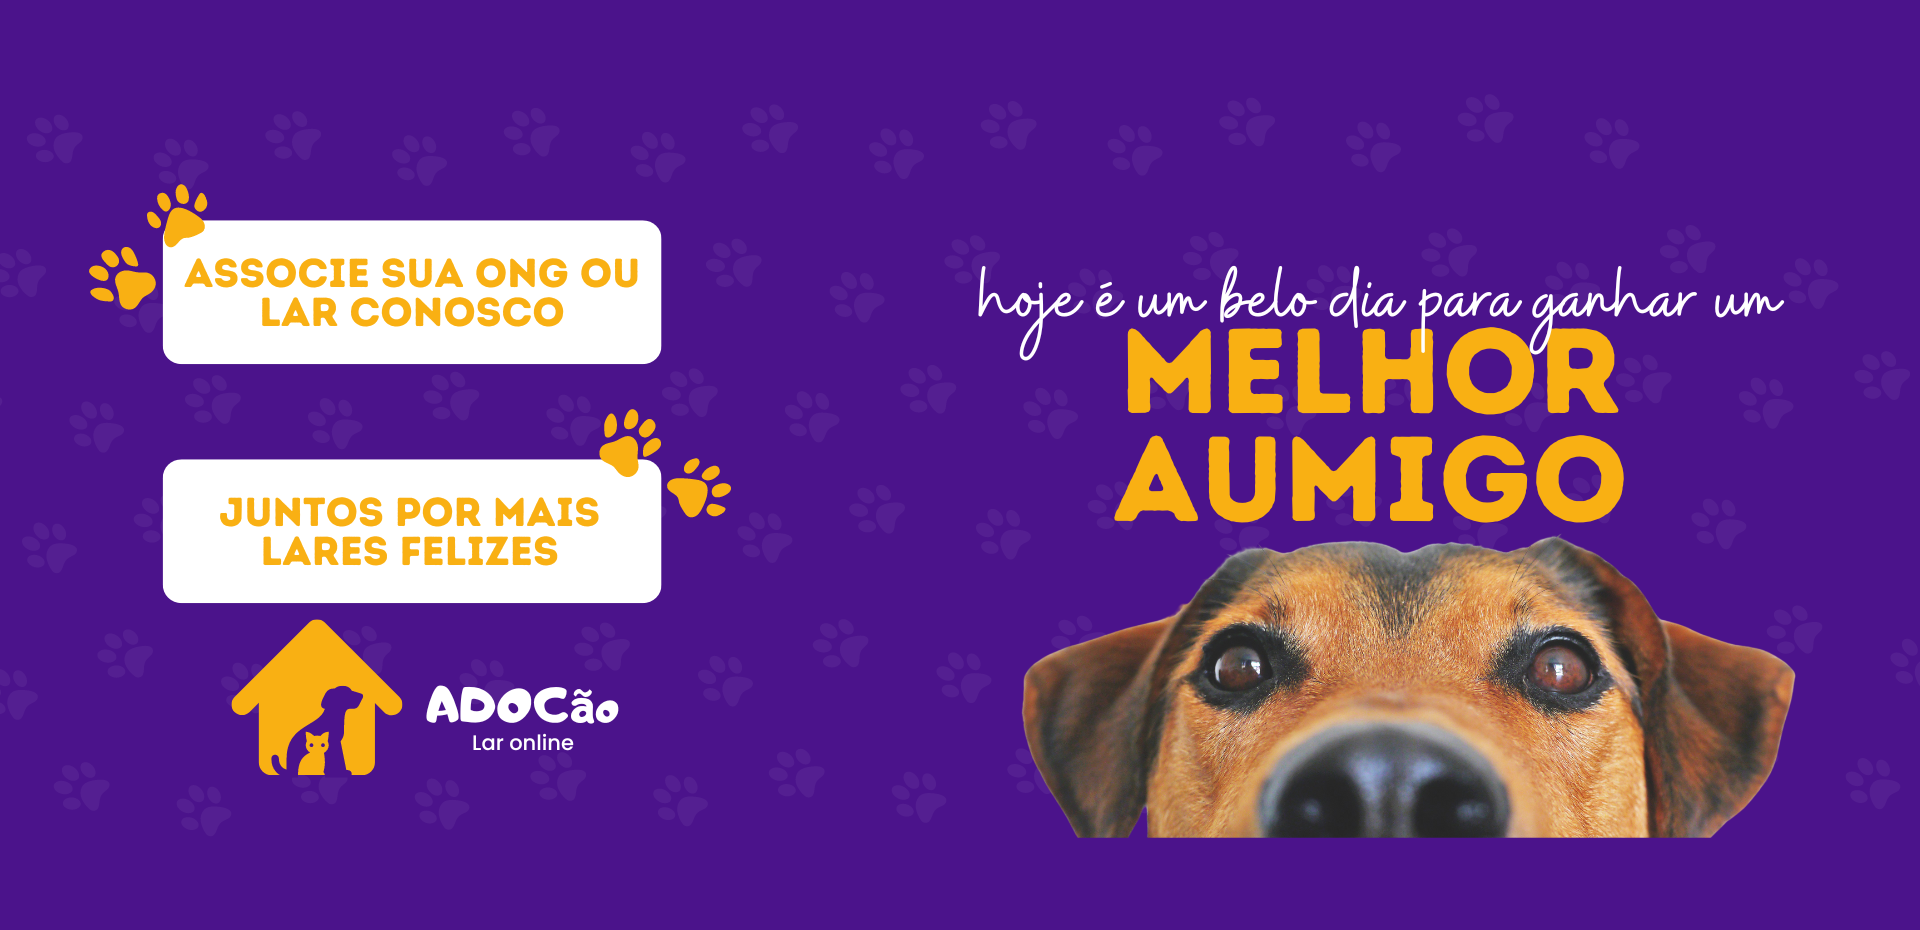
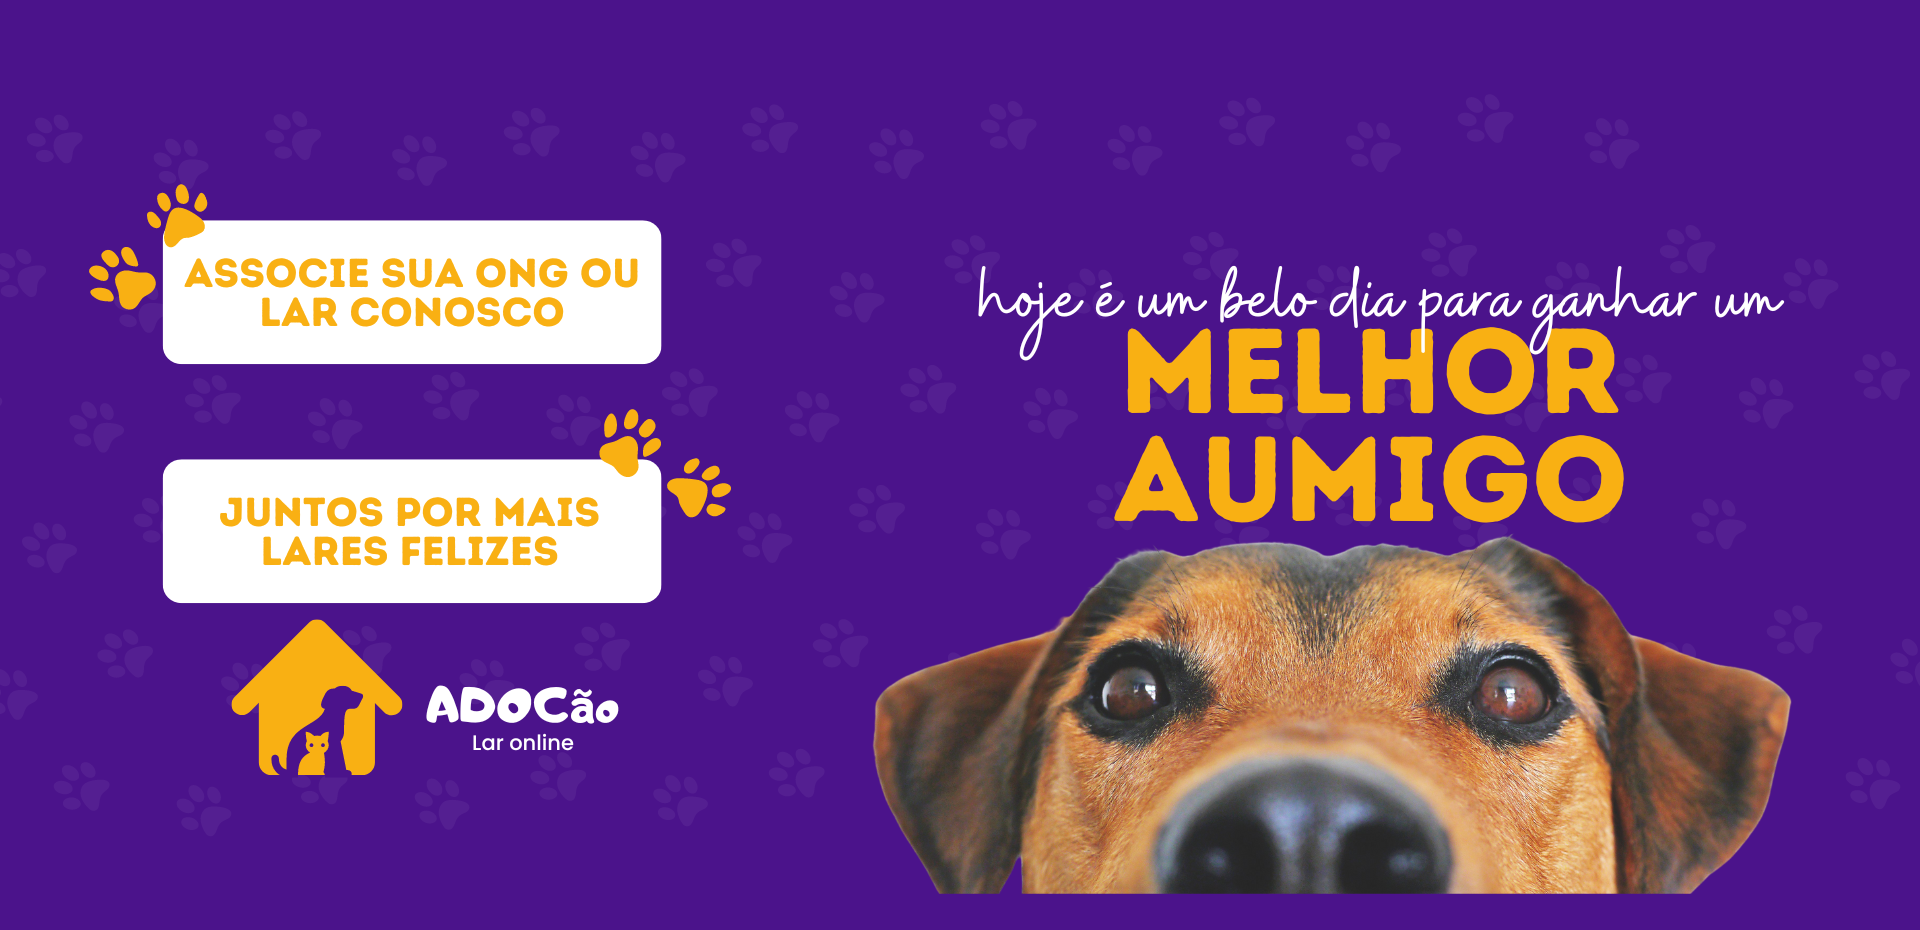
Responsividade Tablet

Changed region(s): [[0.4375, 0.5613, 0.9375, 0.9667]]

diff --git a/css/styles.css b/css/styles.css
@@ -428,3 +428,100 @@ header, .navbar {
     text-decoration: none;
     color: #38b6ff;
 }
+
+/* Responsivo */
+
+@media(max-width: 788px) {
+
+    /*geral*/
+    .container {
+        padding: 20px 0;
+    }
+
+    /* slider */
+
+    #mainSlider .carousel-inner, #mainSlider .carousel-item {
+        height: auto;
+    }
+
+    #mainSlider .carousel-caption h2 {
+        font-size: 28px;
+    }
+
+    #mainSlider .carousel-caption p {
+        font-size: 18px;
+        margin-bottom: 40px;
+    }
+
+    .carousel-caption {
+        left: 10%;
+        right: 10%;
+    }
+    .carousel-indicators li {
+        width: 10px;
+        height: 10px;
+        border-radius: 100%
+    }
+
+    #portfolio-area .filter-btn {
+        color: #444;
+        border: 1px solid #444;
+        background-color: transparent;
+        text-transform: none;
+        margin: 0 15px;
+        line-height: 40px;
+        padding: 0 20px;
+        max-width: 150px;
+        max-height: 50px;
+    }
+    /*about*/
+
+    #about-area img{
+        margin-top: 100px;
+    }
+    
+    .circle-box div{
+        padding: 0 10px;
+    }
+
+    #data-area p{
+        font-size: 16px;
+    }
+
+    /*time*/
+
+    .card-title {
+        font-size: 14px;
+    }
+
+    .card-text{
+        font-size: 12px;
+    }
+
+    /*call to action*/
+
+    #call-area .container {
+        padding: 30px;
+    }
+
+    #call-area p, #call-area #call-btn{
+        font-size: 16px;
+    }
+
+    /*news and contact*/
+
+    #news-area p {
+        width: 80%;
+        margin-left: auto;
+        margin-right: auto;
+    }
+
+    #email-input {
+        width: 70%;
+
+    }
+
+    #contact-area {
+        font-size: 16px;
+    }
+}

diff --git a/index.html b/index.html
@@ -214,7 +214,7 @@
                 <img src="images/eu.png" class="card-img-top" alt="Imagem de Perfil 1">
                 <div class="card-body">
                   <h5 class="card-title">Gabriel Dornelas</h5>
-                  <p class="card-text">CEO</p>
+                  <p class="card-text">CEO, Developer</p>
                 </div>
               </div>
             </div>
